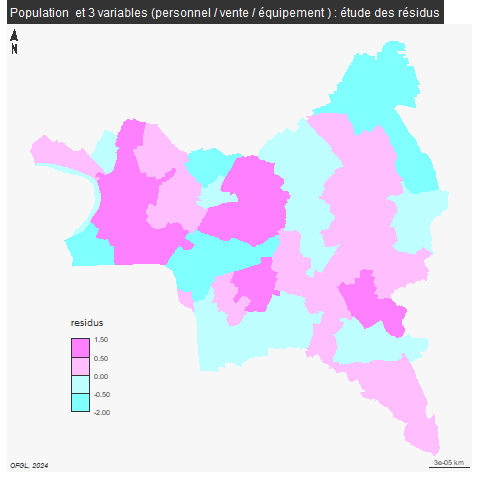
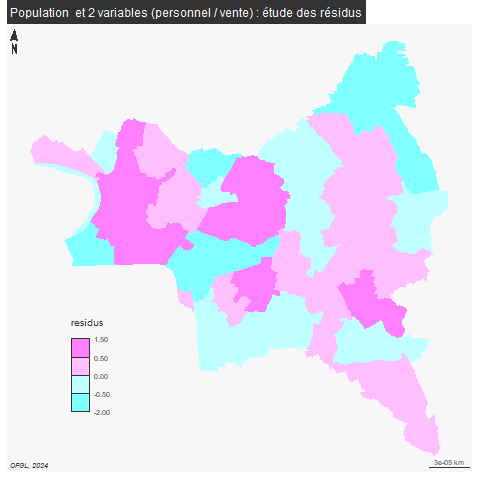
avt c10

Changed region(s): [[0.5, 0.0, 0.9375, 0.0625], [0.1875, 0.0, 0.2188, 0.0312]]

diff --git a/_site/jour7.html b/_site/jour7.html
@@ -740,6 +740,8 @@ l’élément correspondant de l’agrégat.</p>
 ## [3] &quot;Emprunts hors GAD&quot;           &quot;Dépenses d&#39;équipement&quot;</code></pre>
 <div class="sourceCode" id="cb17"><pre class="sourceCode r"><code class="sourceCode r"><span id="cb17-1"><a href="#cb17-1" tabindex="-1"></a><span class="co"># simplification des noms</span></span>
 <span id="cb17-2"><a href="#cb17-2" tabindex="-1"></a><span class="fu">names</span>(fin) [<span class="dv">2</span><span class="sc">:</span><span class="dv">5</span>] <span class="ot">&lt;-</span> <span class="fu">c</span>(<span class="st">&quot;vente&quot;</span>, <span class="st">&quot;personnel&quot;</span>, <span class="st">&quot;emprunt&quot;</span>, <span class="st">&quot;equipement&quot;</span>)</span></code></pre></div>
+<p>Enregistrement du tableau de données mis en forme</p>
+<div class="sourceCode" id="cb18"><pre class="sourceCode r"><code class="sourceCode r"><span id="cb18-1"><a href="#cb18-1" tabindex="-1"></a><span class="fu">write.csv</span>(fin, <span class="st">&quot;data/baseMultivarie.csv&quot;</span>, <span class="at">fileEncoding =</span> <span class="st">&quot;UTF-8&quot;</span>)</span></code></pre></div>
 </div>
 </div>
 <div id="modèle-de-régression-multiple" class="section level1"
@@ -750,7 +752,7 @@ multiple</h1>
 number="3.1">
 <h2><span class="header-section-number">3.1</span> Préparation de la
 donnée</h2>
-<div class="sourceCode" id="cb18"><pre class="sourceCode r"><code class="sourceCode r"><span id="cb18-1"><a href="#cb18-1" tabindex="-1"></a><span class="fu">head</span>(fin)</span></code></pre></div>
+<div class="sourceCode" id="cb19"><pre class="sourceCode r"><code class="sourceCode r"><span id="cb19-1"><a href="#cb19-1" tabindex="-1"></a><span class="fu">head</span>(fin)</span></code></pre></div>
 <pre><code>##            commune     vente personnel     emprunt equipement    pop
 ## 1    Aubervilliers  8.922840  86.23647  0.07647707   28.68539 9.0259
 ## 2 Aulnay-sous-Bois 11.969172  94.39636  1.27871516   21.21589 8.6522
@@ -758,8 +760,8 @@ donnée</h2>
 ## 4          Bobigny 12.026500  71.44153 16.05282400   47.42069 5.5191
 ## 5            Bondy  6.127473  51.13971  5.00000000   11.42274 5.3067
 ## 6 Clichy-sous-Bois  1.793706  30.31320  0.00000000   13.83377 2.9806</code></pre>
-<div class="sourceCode" id="cb20"><pre class="sourceCode r"><code class="sourceCode r"><span id="cb20-1"><a href="#cb20-1" tabindex="-1"></a><span class="fu">rownames</span>(fin) <span class="ot">&lt;-</span> fin<span class="sc">$</span>commune</span>
-<span id="cb20-2"><a href="#cb20-2" tabindex="-1"></a>fin <span class="ot">&lt;-</span> fin [, <span class="sc">-</span><span class="dv">1</span>]</span></code></pre></div>
+<div class="sourceCode" id="cb21"><pre class="sourceCode r"><code class="sourceCode r"><span id="cb21-1"><a href="#cb21-1" tabindex="-1"></a><span class="fu">rownames</span>(fin) <span class="ot">&lt;-</span> fin<span class="sc">$</span>commune</span>
+<span id="cb21-2"><a href="#cb21-2" tabindex="-1"></a>fin <span class="ot">&lt;-</span> fin [, <span class="sc">-</span><span class="dv">1</span>]</span></code></pre></div>
 <p>On obtient ainsi un tableau dont les étiquettes sont intégrées dans
 l’entête des lignes et qui ne contient que des chiffres.</p>
 </div>
@@ -767,16 +769,16 @@ l’entête des lignes et qui ne contient que des chiffres.</p>
 class="section level2" number="3.2">
 <h2><span class="header-section-number">3.2</span> Coefficient de
 correlation / détermination</h2>
-<div class="sourceCode" id="cb21"><pre class="sourceCode r"><code class="sourceCode r"><span id="cb21-1"><a href="#cb21-1" tabindex="-1"></a><span class="fu">pairs</span>(fin)</span></code></pre></div>
-<p><img src="jour7_files/figure-html/unnamed-chunk-8-1.png" width="672" /></p>
-<div class="sourceCode" id="cb22"><pre class="sourceCode r"><code class="sourceCode r"><span id="cb22-1"><a href="#cb22-1" tabindex="-1"></a><span class="fu">cor</span>(fin)</span></code></pre></div>
+<div class="sourceCode" id="cb22"><pre class="sourceCode r"><code class="sourceCode r"><span id="cb22-1"><a href="#cb22-1" tabindex="-1"></a><span class="fu">pairs</span>(fin)</span></code></pre></div>
+<p><img src="jour7_files/figure-html/unnamed-chunk-9-1.png" width="672" /></p>
+<div class="sourceCode" id="cb23"><pre class="sourceCode r"><code class="sourceCode r"><span id="cb23-1"><a href="#cb23-1" tabindex="-1"></a><span class="fu">cor</span>(fin)</span></code></pre></div>
 <pre><code>##                vente personnel   emprunt equipement       pop
 ## vente      1.0000000 0.8331551 0.5593201  0.7053665 0.8639097
 ## personnel  0.8331551 1.0000000 0.5320888  0.7178396 0.9688553
 ## emprunt    0.5593201 0.5320888 1.0000000  0.7133739 0.4884455
 ## equipement 0.7053665 0.7178396 0.7133739  1.0000000 0.7074864
 ## pop        0.8639097 0.9688553 0.4884455  0.7074864 1.0000000</code></pre>
-<div class="sourceCode" id="cb24"><pre class="sourceCode r"><code class="sourceCode r"><span id="cb24-1"><a href="#cb24-1" tabindex="-1"></a><span class="fu">cor</span>(fin)<span class="sc">^</span><span class="dv">2</span></span></code></pre></div>
+<div class="sourceCode" id="cb25"><pre class="sourceCode r"><code class="sourceCode r"><span id="cb25-1"><a href="#cb25-1" tabindex="-1"></a><span class="fu">cor</span>(fin)<span class="sc">^</span><span class="dv">2</span></span></code></pre></div>
 <pre><code>##                vente personnel   emprunt equipement       pop
 ## vente      1.0000000 0.6941474 0.3128390  0.4975419 0.7463399
 ## personnel  0.6941474 1.0000000 0.2831185  0.5152936 0.9386806
@@ -795,9 +797,9 @@ population</p>
 <p>Vente, personnel et équipement semblent corrélées entre elle, mais,
 les plus fortes corrélations restent avec la population sauf pour
 l’équipement.</p>
-<div class="sourceCode" id="cb26"><pre class="sourceCode r"><code class="sourceCode r"><span id="cb26-1"><a href="#cb26-1" tabindex="-1"></a>modele <span class="ot">&lt;-</span> <span class="fu">lm</span> (<span class="at">formula =</span> pop <span class="sc">~</span> equipement <span class="sc">+</span> personnel <span class="sc">+</span> vente, <span class="at">data =</span> fin)</span></code></pre></div>
+<div class="sourceCode" id="cb27"><pre class="sourceCode r"><code class="sourceCode r"><span id="cb27-1"><a href="#cb27-1" tabindex="-1"></a>modele <span class="ot">&lt;-</span> <span class="fu">lm</span> (<span class="at">formula =</span> pop <span class="sc">~</span> equipement <span class="sc">+</span> personnel <span class="sc">+</span> vente, <span class="at">data =</span> fin)</span></code></pre></div>
 <p>Tout s’est-il bien déroulé ?</p>
-<div class="sourceCode" id="cb27"><pre class="sourceCode r"><code class="sourceCode r"><span id="cb27-1"><a href="#cb27-1" tabindex="-1"></a>modele</span></code></pre></div>
+<div class="sourceCode" id="cb28"><pre class="sourceCode r"><code class="sourceCode r"><span id="cb28-1"><a href="#cb28-1" tabindex="-1"></a>modele</span></code></pre></div>
 <pre><code>## 
 ## Call:
 ## lm(formula = pop ~ equipement + personnel + vente, data = fin)
@@ -805,7 +807,7 @@ l’équipement.</p>
 ## Coefficients:
 ## (Intercept)   equipement    personnel        vente  
 ##    0.416114    -0.003289     0.075224     0.125315</code></pre>
-<div class="sourceCode" id="cb29"><pre class="sourceCode r"><code class="sourceCode r"><span id="cb29-1"><a href="#cb29-1" tabindex="-1"></a><span class="fu">summary</span>(modele)</span></code></pre></div>
+<div class="sourceCode" id="cb30"><pre class="sourceCode r"><code class="sourceCode r"><span id="cb30-1"><a href="#cb30-1" tabindex="-1"></a><span class="fu">summary</span>(modele)</span></code></pre></div>
 <pre><code>## 
 ## Call:
 ## lm(formula = pop ~ equipement + personnel + vente, data = fin)
@@ -841,26 +843,26 @@ unité (ici 10 000 hbt).</p>
 <h1><span class="header-section-number">4</span> Résidus</h1>
 <p>L’étude spatiale des résidus peut permettre de déterminer une
 organisation du territoire.</p>
-<div class="sourceCode" id="cb31"><pre class="sourceCode r"><code class="sourceCode r"><span id="cb31-1"><a href="#cb31-1" tabindex="-1"></a><span class="fu">hist</span>(modele<span class="sc">$</span>residuals)</span></code></pre></div>
-<p><img src="jour7_files/figure-html/unnamed-chunk-11-1.png" width="672" /></p>
-<div class="sourceCode" id="cb32"><pre class="sourceCode r"><code class="sourceCode r"><span id="cb32-1"><a href="#cb32-1" tabindex="-1"></a>residus <span class="ot">&lt;-</span> modele<span class="sc">$</span>residuals</span>
-<span id="cb32-2"><a href="#cb32-2" tabindex="-1"></a>residus <span class="ot">&lt;-</span> <span class="fu">as.data.frame</span>(residus)</span>
-<span id="cb32-3"><a href="#cb32-3" tabindex="-1"></a>residus<span class="sc">$</span>name <span class="ot">&lt;-</span> <span class="fu">row.names</span>(residus)</span></code></pre></div>
-<div class="sourceCode" id="cb33"><pre class="sourceCode r"><code class="sourceCode r"><span id="cb33-1"><a href="#cb33-1" tabindex="-1"></a><span class="fu">library</span>(sf)</span>
-<span id="cb33-2"><a href="#cb33-2" tabindex="-1"></a>communes <span class="ot">&lt;-</span> <span class="fu">st_read</span>(<span class="st">&quot;data/communes93.geojson&quot;</span>)</span>
-<span id="cb33-3"><a href="#cb33-3" tabindex="-1"></a>communes <span class="ot">&lt;-</span> communes [<span class="sc">!</span><span class="fu">is.na</span>(communes<span class="sc">$</span>ref.INSEE), <span class="fu">c</span>(<span class="st">&quot;name&quot;</span>, <span class="st">&quot;ref.INSEE&quot;</span>)]</span>
-<span id="cb33-4"><a href="#cb33-4" tabindex="-1"></a>communes<span class="sc">$</span>name</span>
-<span id="cb33-5"><a href="#cb33-5" tabindex="-1"></a>residus<span class="sc">$</span>name</span>
-<span id="cb33-6"><a href="#cb33-6" tabindex="-1"></a><span class="co"># on fait une jointure entre les résidus et la géographie des communes</span></span>
-<span id="cb33-7"><a href="#cb33-7" tabindex="-1"></a>jointure <span class="ot">&lt;-</span> <span class="fu">merge</span>(communes, residus, <span class="at">by =</span> <span class="st">&quot;name&quot;</span>)</span>
-<span id="cb33-8"><a href="#cb33-8" tabindex="-1"></a><span class="fu">setdiff</span>(residus<span class="sc">$</span>name, jointure<span class="sc">$</span>name)</span>
-<span id="cb33-9"><a href="#cb33-9" tabindex="-1"></a><span class="fu">summary</span>(jointure<span class="sc">$</span>residus)</span></code></pre></div>
-<div class="sourceCode" id="cb34"><pre class="sourceCode r"><code class="sourceCode r"><span id="cb34-1"><a href="#cb34-1" tabindex="-1"></a><span class="fu">library</span>(mapsf)</span>
-<span id="cb34-2"><a href="#cb34-2" tabindex="-1"></a><span class="fu">png</span>(<span class="st">&quot;img/residusCarte2.png&quot;</span>)</span>
-<span id="cb34-3"><a href="#cb34-3" tabindex="-1"></a><span class="fu">mf_map</span>(jointure, <span class="at">var =</span> <span class="st">&quot;residus&quot;</span>, <span class="at">type=</span><span class="st">&quot;choro&quot;</span>, <span class="at">breaks =</span> <span class="fu">c</span>(<span class="sc">-</span><span class="dv">2</span>, <span class="sc">-</span><span class="fl">0.5</span>,<span class="dv">0</span>,<span class="fl">0.5</span>,<span class="fl">1.5</span>), <span class="at">pal =</span> <span class="fu">cm.colors</span>(<span class="dv">4</span>), <span class="at">border =</span> <span class="cn">NA</span>, <span class="at">leg_pos =</span> <span class="fu">c</span>(<span class="fl">2.31589950651953</span>, <span class="fl">48.8793057936166</span>) )</span>
-<span id="cb34-4"><a href="#cb34-4" tabindex="-1"></a><span class="co">#mf_label(communes, var = &quot;name&quot;, overlap = FALSE, col= &quot;wheat4&quot;, cex = 0.8)</span></span>
-<span id="cb34-5"><a href="#cb34-5" tabindex="-1"></a><span class="fu">mf_layout</span>(<span class="st">&quot;Population  et 3 variables (personnel / vente / équipement ) : étude des résidus&quot;</span>, <span class="at">credits =</span> <span class="st">&quot;OFGL, 2024&quot;</span>)</span>
-<span id="cb34-6"><a href="#cb34-6" tabindex="-1"></a><span class="fu">dev.off</span>()</span></code></pre></div>
+<div class="sourceCode" id="cb32"><pre class="sourceCode r"><code class="sourceCode r"><span id="cb32-1"><a href="#cb32-1" tabindex="-1"></a><span class="fu">hist</span>(modele<span class="sc">$</span>residuals)</span></code></pre></div>
+<p><img src="jour7_files/figure-html/unnamed-chunk-12-1.png" width="672" /></p>
+<div class="sourceCode" id="cb33"><pre class="sourceCode r"><code class="sourceCode r"><span id="cb33-1"><a href="#cb33-1" tabindex="-1"></a>residus <span class="ot">&lt;-</span> modele<span class="sc">$</span>residuals</span>
+<span id="cb33-2"><a href="#cb33-2" tabindex="-1"></a>residus <span class="ot">&lt;-</span> <span class="fu">as.data.frame</span>(residus)</span>
+<span id="cb33-3"><a href="#cb33-3" tabindex="-1"></a>residus<span class="sc">$</span>name <span class="ot">&lt;-</span> <span class="fu">row.names</span>(residus)</span></code></pre></div>
+<div class="sourceCode" id="cb34"><pre class="sourceCode r"><code class="sourceCode r"><span id="cb34-1"><a href="#cb34-1" tabindex="-1"></a><span class="fu">library</span>(sf)</span>
+<span id="cb34-2"><a href="#cb34-2" tabindex="-1"></a>communes <span class="ot">&lt;-</span> <span class="fu">st_read</span>(<span class="st">&quot;data/communes93.geojson&quot;</span>)</span>
+<span id="cb34-3"><a href="#cb34-3" tabindex="-1"></a>communes <span class="ot">&lt;-</span> communes [<span class="sc">!</span><span class="fu">is.na</span>(communes<span class="sc">$</span>ref.INSEE), <span class="fu">c</span>(<span class="st">&quot;name&quot;</span>, <span class="st">&quot;ref.INSEE&quot;</span>)]</span>
+<span id="cb34-4"><a href="#cb34-4" tabindex="-1"></a>communes<span class="sc">$</span>name</span>
+<span id="cb34-5"><a href="#cb34-5" tabindex="-1"></a>residus<span class="sc">$</span>name</span>
+<span id="cb34-6"><a href="#cb34-6" tabindex="-1"></a><span class="co"># on fait une jointure entre les résidus et la géographie des communes</span></span>
+<span id="cb34-7"><a href="#cb34-7" tabindex="-1"></a>jointure <span class="ot">&lt;-</span> <span class="fu">merge</span>(communes, residus, <span class="at">by =</span> <span class="st">&quot;name&quot;</span>)</span>
+<span id="cb34-8"><a href="#cb34-8" tabindex="-1"></a><span class="fu">setdiff</span>(residus<span class="sc">$</span>name, jointure<span class="sc">$</span>name)</span>
+<span id="cb34-9"><a href="#cb34-9" tabindex="-1"></a><span class="fu">summary</span>(jointure<span class="sc">$</span>residus)</span></code></pre></div>
+<div class="sourceCode" id="cb35"><pre class="sourceCode r"><code class="sourceCode r"><span id="cb35-1"><a href="#cb35-1" tabindex="-1"></a><span class="fu">library</span>(mapsf)</span>
+<span id="cb35-2"><a href="#cb35-2" tabindex="-1"></a><span class="fu">png</span>(<span class="st">&quot;img/residusCarte2.png&quot;</span>)</span>
+<span id="cb35-3"><a href="#cb35-3" tabindex="-1"></a><span class="fu">mf_map</span>(jointure, <span class="at">var =</span> <span class="st">&quot;residus&quot;</span>, <span class="at">type=</span><span class="st">&quot;choro&quot;</span>, <span class="at">breaks =</span> <span class="fu">c</span>(<span class="sc">-</span><span class="dv">2</span>, <span class="sc">-</span><span class="fl">0.5</span>,<span class="dv">0</span>,<span class="fl">0.5</span>,<span class="fl">1.5</span>), <span class="at">pal =</span> <span class="fu">cm.colors</span>(<span class="dv">4</span>), <span class="at">border =</span> <span class="cn">NA</span>, <span class="at">leg_pos =</span> <span class="fu">c</span>(<span class="fl">2.31589950651953</span>, <span class="fl">48.8793057936166</span>) )</span>
+<span id="cb35-4"><a href="#cb35-4" tabindex="-1"></a><span class="co">#mf_label(communes, var = &quot;name&quot;, overlap = FALSE, col= &quot;wheat4&quot;, cex = 0.8)</span></span>
+<span id="cb35-5"><a href="#cb35-5" tabindex="-1"></a><span class="fu">mf_layout</span>(<span class="st">&quot;Population  et 3 variables (personnel / vente / équipement ) : étude des résidus&quot;</span>, <span class="at">credits =</span> <span class="st">&quot;OFGL, 2024&quot;</span>)</span>
+<span id="cb35-6"><a href="#cb35-6" tabindex="-1"></a><span class="fu">dev.off</span>()</span></code></pre></div>
 <p><img src="img/residusCarte2.png" /></p>
 <p>Les villes se conforment mieux au modèle quand elles sont à proximité
 de Paris sauf Montreuil et Tremblay.</p>
@@ -868,17 +870,25 @@ de Paris sauf Montreuil et Tremblay.</p>
 <div id="deuxième-modèle" class="section level1" number="5">
 <h1><span class="header-section-number">5</span> Deuxième modèle</h1>
 <p>On refait l’analyse sans les dépenses d’équipement</p>
-<div class="sourceCode" id="cb35"><pre class="sourceCode r"><code class="sourceCode r"><span id="cb35-1"><a href="#cb35-1" tabindex="-1"></a>modele <span class="ot">&lt;-</span> <span class="fu">lm</span> (<span class="at">formula =</span> pop <span class="sc">~</span> personnel <span class="sc">+</span> vente, <span class="at">data =</span> fin)</span></code></pre></div>
+<div class="sourceCode" id="cb36"><pre class="sourceCode r"><code class="sourceCode r"><span id="cb36-1"><a href="#cb36-1" tabindex="-1"></a>modele <span class="ot">&lt;-</span> <span class="fu">lm</span> (<span class="at">formula =</span> pop <span class="sc">~</span> personnel <span class="sc">+</span> vente, <span class="at">data =</span> fin)</span></code></pre></div>
+<div id="représentation-graphique" class="section level2" number="5.1">
+<h2><span class="header-section-number">5.1</span> Représentation
+graphique</h2>
 <p>Comme il n’y a que 3 variables, on peut faire un graphique en 3D</p>
-<div class="sourceCode" id="cb36"><pre class="sourceCode r"><code class="sourceCode r"><span id="cb36-1"><a href="#cb36-1" tabindex="-1"></a><span class="fu">library</span>(scatterplot3d)</span>
-<span id="cb36-2"><a href="#cb36-2" tabindex="-1"></a>s3d <span class="ot">&lt;-</span> <span class="fu">scatterplot3d</span>(fin<span class="sc">$</span>vente, fin<span class="sc">$</span>personnel, fin<span class="sc">$</span>pop, <span class="at">color =</span> <span class="st">&quot;blue&quot;</span>)</span>
-<span id="cb36-3"><a href="#cb36-3" tabindex="-1"></a><span class="co"># plan de régression</span></span>
-<span id="cb36-4"><a href="#cb36-4" tabindex="-1"></a>s3d<span class="sc">$</span><span class="fu">plane3d</span>(modele)</span>
-<span id="cb36-5"><a href="#cb36-5" tabindex="-1"></a><span class="fu">text</span>(s3d<span class="sc">$</span><span class="fu">xyz.convert</span> (fin  [,<span class="fu">c</span>(<span class="dv">1</span>,<span class="dv">2</span>,<span class="dv">5</span>)]), <span class="at">labels =</span> <span class="fu">rownames</span>(fin), <span class="at">cex =</span> <span class="fl">0.5</span>)</span></code></pre></div>
-<p><img src="jour7_files/figure-html/unnamed-chunk-15-1.png" width="672" /></p>
+<div class="sourceCode" id="cb37"><pre class="sourceCode r"><code class="sourceCode r"><span id="cb37-1"><a href="#cb37-1" tabindex="-1"></a><span class="fu">library</span>(scatterplot3d)</span>
+<span id="cb37-2"><a href="#cb37-2" tabindex="-1"></a>s3d <span class="ot">&lt;-</span> <span class="fu">scatterplot3d</span>(fin<span class="sc">$</span>vente, fin<span class="sc">$</span>personnel, fin<span class="sc">$</span>pop, <span class="at">color =</span> <span class="st">&quot;blue&quot;</span>)</span>
+<span id="cb37-3"><a href="#cb37-3" tabindex="-1"></a><span class="co"># plan de régression</span></span>
+<span id="cb37-4"><a href="#cb37-4" tabindex="-1"></a>s3d<span class="sc">$</span><span class="fu">plane3d</span>(modele)</span>
+<span id="cb37-5"><a href="#cb37-5" tabindex="-1"></a><span class="fu">text</span>(s3d<span class="sc">$</span><span class="fu">xyz.convert</span> (fin  [,<span class="fu">c</span>(<span class="dv">1</span>,<span class="dv">2</span>,<span class="dv">5</span>)]), <span class="at">labels =</span> <span class="fu">rownames</span>(fin), <span class="at">cex =</span> <span class="fl">0.5</span>)</span></code></pre></div>
+<p><img src="jour7_files/figure-html/unnamed-chunk-16-1.png" width="672" /></p>
 <p>Comparer Saint Denis et Montreuil, par exemple</p>
+<p>Globalement, cela n’est pas si lisible même à 3 dimensions.</p>
+</div>
+<div id="résultat-algébrique" class="section level2" number="5.2">
+<h2><span class="header-section-number">5.2</span> Résultat
+algébrique</h2>
 <p>Tout s’est-il bien déroulé ?</p>
-<div class="sourceCode" id="cb37"><pre class="sourceCode r"><code class="sourceCode r"><span id="cb37-1"><a href="#cb37-1" tabindex="-1"></a><span class="fu">summary</span>(modele)</span></code></pre></div>
+<div class="sourceCode" id="cb38"><pre class="sourceCode r"><code class="sourceCode r"><span id="cb38-1"><a href="#cb38-1" tabindex="-1"></a><span class="fu">summary</span>(modele)</span></code></pre></div>
 <pre><code>## 
 ## Call:
 ## lm(formula = pop ~ personnel + vente, data = fin)
@@ -900,17 +910,21 @@ de Paris sauf Montreuil et Tremblay.</p>
 ## F-statistic: 345.6 on 2 and 37 DF,  p-value: &lt; 2.2e-16</code></pre>
 <p>La significativité entre vente et population augmente si on supprime
 la variable équipement.</p>
+</div>
+<div id="cartographie" class="section level2" number="5.3">
+<h2><span class="header-section-number">5.3</span> Cartographie</h2>
 <p>La carte des résidus varie un peu</p>
-<div class="sourceCode" id="cb39"><pre class="sourceCode r"><code class="sourceCode r"><span id="cb39-1"><a href="#cb39-1" tabindex="-1"></a><span class="fu">hist</span>(modele<span class="sc">$</span>residuals)</span>
-<span id="cb39-2"><a href="#cb39-2" tabindex="-1"></a><span class="co"># permet de voir les bornes pour la cartographie</span></span>
-<span id="cb39-3"><a href="#cb39-3" tabindex="-1"></a><span class="fu">library</span>(mapsf)</span>
-<span id="cb39-4"><a href="#cb39-4" tabindex="-1"></a><span class="fu">png</span>(<span class="st">&quot;img/residusCarte3.png&quot;</span>)</span>
-<span id="cb39-5"><a href="#cb39-5" tabindex="-1"></a><span class="fu">mf_map</span>(jointure, <span class="at">var =</span> <span class="st">&quot;residus&quot;</span>, <span class="at">type=</span><span class="st">&quot;choro&quot;</span>, <span class="at">breaks =</span> <span class="fu">c</span>(<span class="sc">-</span><span class="dv">2</span>, <span class="sc">-</span><span class="fl">0.5</span>,<span class="dv">0</span>,<span class="fl">0.5</span>,<span class="fl">1.5</span>), <span class="at">pal =</span> <span class="fu">cm.colors</span>(<span class="dv">4</span>), <span class="at">border =</span> <span class="cn">NA</span>, <span class="at">leg_pos =</span> <span class="fu">c</span>(<span class="fl">2.31589950651953</span>, <span class="fl">48.8793057936166</span>) )</span>
-<span id="cb39-6"><a href="#cb39-6" tabindex="-1"></a><span class="co">#mf_label(communes, var = &quot;name&quot;, overlap = FALSE, col= &quot;wheat4&quot;, cex = 0.8)</span></span>
-<span id="cb39-7"><a href="#cb39-7" tabindex="-1"></a><span class="fu">mf_layout</span>(<span class="st">&quot;Population  et 3 variables (personnel / vente / équipement ) : étude des résidus&quot;</span>, <span class="at">credits =</span> <span class="st">&quot;OFGL, 2024&quot;</span>)</span>
-<span id="cb39-8"><a href="#cb39-8" tabindex="-1"></a><span class="fu">dev.off</span>()</span></code></pre></div>
+<div class="sourceCode" id="cb40"><pre class="sourceCode r"><code class="sourceCode r"><span id="cb40-1"><a href="#cb40-1" tabindex="-1"></a><span class="fu">hist</span>(modele<span class="sc">$</span>residuals)</span>
+<span id="cb40-2"><a href="#cb40-2" tabindex="-1"></a><span class="co"># permet de voir les bornes pour la cartographie</span></span>
+<span id="cb40-3"><a href="#cb40-3" tabindex="-1"></a><span class="fu">library</span>(mapsf)</span>
+<span id="cb40-4"><a href="#cb40-4" tabindex="-1"></a><span class="fu">png</span>(<span class="st">&quot;img/residusCarte3.png&quot;</span>)</span>
+<span id="cb40-5"><a href="#cb40-5" tabindex="-1"></a><span class="fu">mf_map</span>(jointure, <span class="at">var =</span> <span class="st">&quot;residus&quot;</span>, <span class="at">type=</span><span class="st">&quot;choro&quot;</span>, <span class="at">breaks =</span> <span class="fu">c</span>(<span class="sc">-</span><span class="dv">2</span>, <span class="sc">-</span><span class="fl">0.5</span>,<span class="dv">0</span>,<span class="fl">0.5</span>,<span class="fl">1.5</span>), <span class="at">pal =</span> <span class="fu">cm.colors</span>(<span class="dv">4</span>), <span class="at">border =</span> <span class="cn">NA</span>, <span class="at">leg_pos =</span> <span class="fu">c</span>(<span class="fl">2.31589950651953</span>, <span class="fl">48.8793057936166</span>) )</span>
+<span id="cb40-6"><a href="#cb40-6" tabindex="-1"></a><span class="co">#mf_label(communes, var = &quot;name&quot;, overlap = FALSE, col= &quot;wheat4&quot;, cex = 0.8)</span></span>
+<span id="cb40-7"><a href="#cb40-7" tabindex="-1"></a><span class="fu">mf_layout</span>(<span class="st">&quot;Population  et 2 variables (personnel / vente) : étude des résidus&quot;</span>, <span class="at">credits =</span> <span class="st">&quot;OFGL, 2024&quot;</span>)</span>
+<span id="cb40-8"><a href="#cb40-8" tabindex="-1"></a><span class="fu">dev.off</span>()</span></code></pre></div>
 <p><img src="img/residusCarte2.png" /><img
 src="img/residusCarte3.png" /></p>
+</div>
 </div>
 
 <br><br><br><br><br><br><br><br><br><br><br><br>
